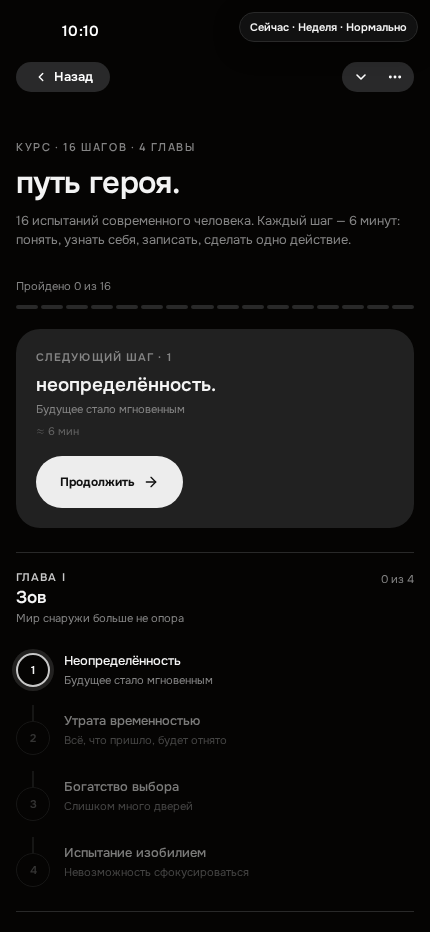
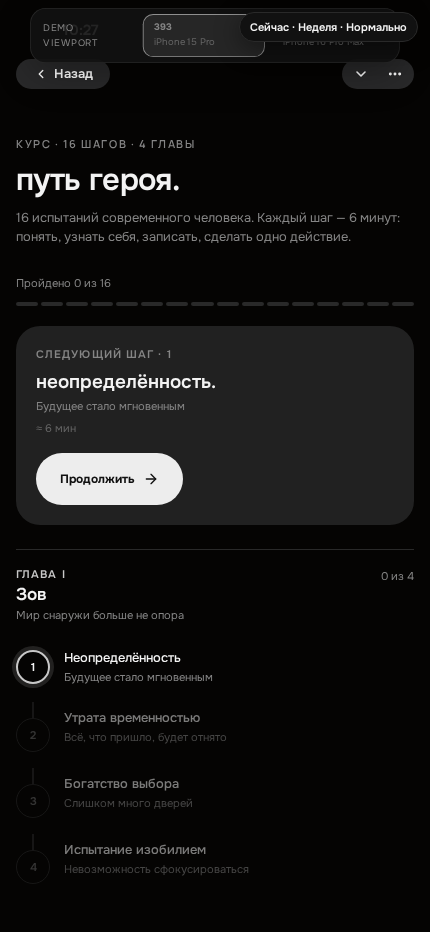
Обновить Библиотеку Stoic и обобщить движок курсов

diff --git a/qa-evidence/stoic-library/report.md b/qa-evidence/stoic-library/report.md
@@ -1,5 +1,25 @@
 # Библиотека в стиле Stoic — отчёт
 
+## Финальная сверка stoic-library-v2 — 03.10.2026 (продолжение)
+
+**Шаг 0:** `git fetch origin` выполнен. HEAD `077319d905`, `origin/main` `c82fad014a`, `git merge-base` = `c82fad014a` (= origin/main). Ветка на 5 коммитов впереди, отставания нет — merge не требуется. Незакоммиченных правок нет. История не переписывалась: reset/rebase/force-push/переключение ветки не выполнялись.
+
+**Проверено:** последние правки (App, Screen, Library — отступы) на месте (коммит `077319d9`). Приложение открывается без ошибок: dev-server на 3000 healthy, `curl /` → 200.
+
+**check:core:** PASS внутри контейнера (`docker compose exec web npm run check:core`): unit 859 passed, 0 failed, 2 прежних skipped; ESLint 0 errors; Vite build PASS; docs:check PASS (273 файла, 0 ошибок). На хосте 3 unit-теста падают с `Cannot find package 'react'` — это отсутствие `node_modules` на хосте (volume в контейнере), не регрессия; в контейнере все 859 зелёные.
+
+**UX-тест библиотеки:** `npx playwright test --config=pw-library-stoic.config.mjs` — 1 сценарий, Chromium, PASS (10.6 с). Проверены рамки 393 и 440 с демо-шапкой Telegram: «Библиотека» на всю ширину с полями 16px, заголовок «библиотека.» на одной линии слева с «✕ Закрыть» (как «Сегодня»), курс/шторка/читалка без наложений шапки, навигация, свайпы, сохранение прогресса после reload.
+
+**Живой превью:** `?demo=1&tab=library` (без `frame=0`/`tgshell=0`) — после полной перезагрузки `library-home` и `mx-demo-telegram-chrome__controls` видны, ошибок рендеринга нет. (Предварительный client-side navigate показывал онбординг — `useState` инициализируется один раз на маунте; полный reload с `?demo=1` активирует demo-режим корректно.)
+
+**Скрины 430×932 с демо-шапкой** (обновлены, Playwright Chromium, dev-исходники):
+
+[Главная, один курс](home.png) · [Главная, два демо-курса](home-demo.png) · [Курс с «‹ Назад»](course.png) · [Шторка](sheet.png) · [Начало статьи](reader-start.png) · [Конец статьи](reader-end.png)
+
+**Ограничения:** полный `ux:check` и WebKit не запускались/не устанавливались — оставлены CI. Ручной iPhone/Telegram gate остаётся.
+
+---
+
 ## Продолжение stoic-library-v2 — 03.10.2026
 
 **Сверка:** на старте HEAD `5ebd255b13`, ветка `stoic-library-v2`, рабочее дерево с сохранёнными правками. Проверены движок курсов, CourseCard/CourseCatalog, placeholder-road/mountain/mask/book.svg, плитки, словарь тем и Telegram «Назад». Ничего не откатывалось; reset/rebase/force-push, ручные commit/push и переключение ветки не выполнялись. `git fetch --all --prune` выполнен.
